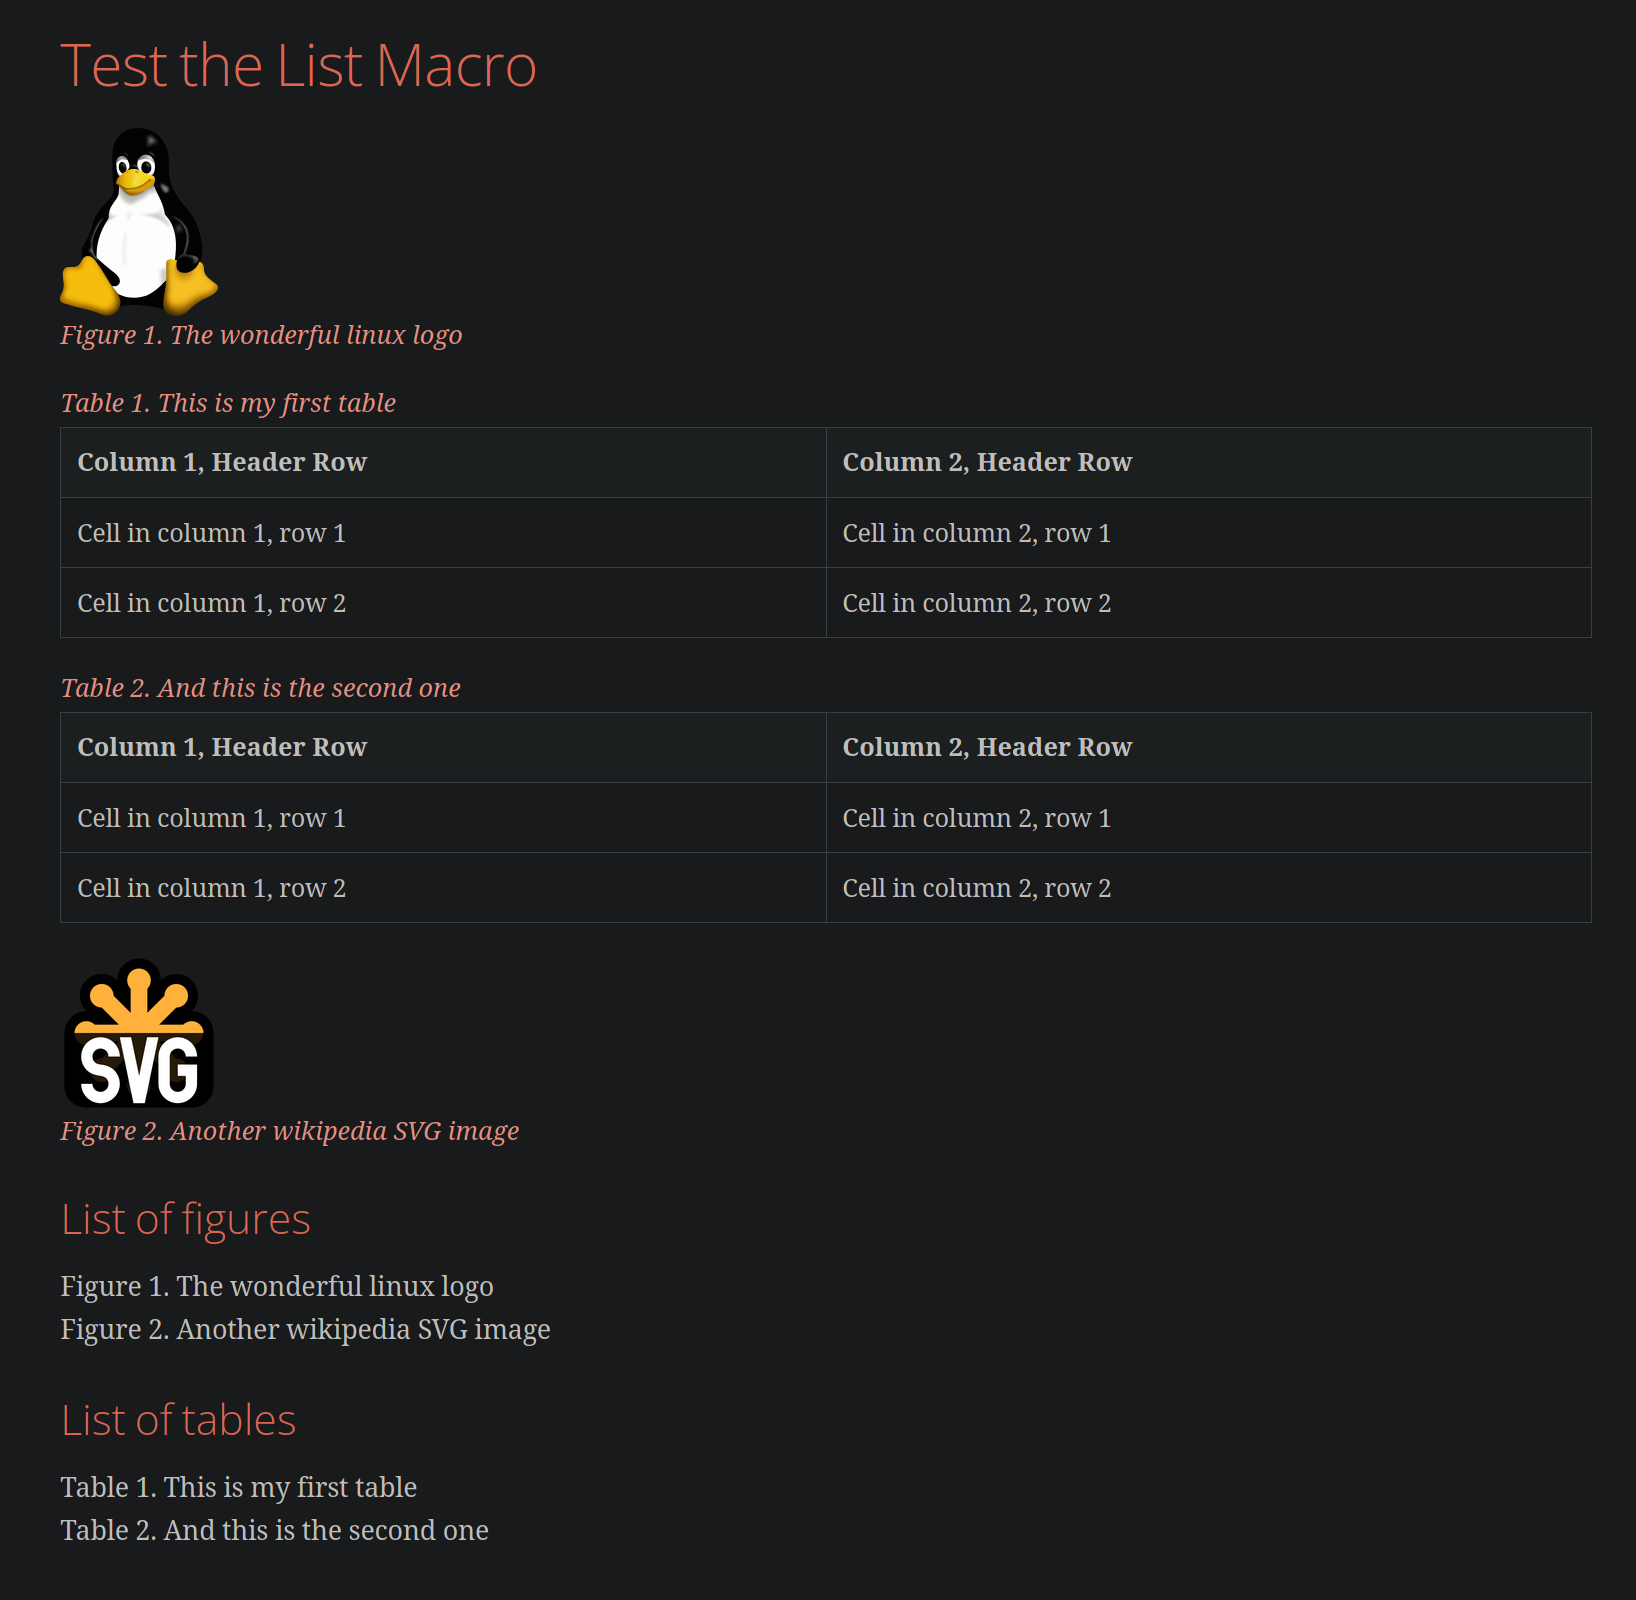
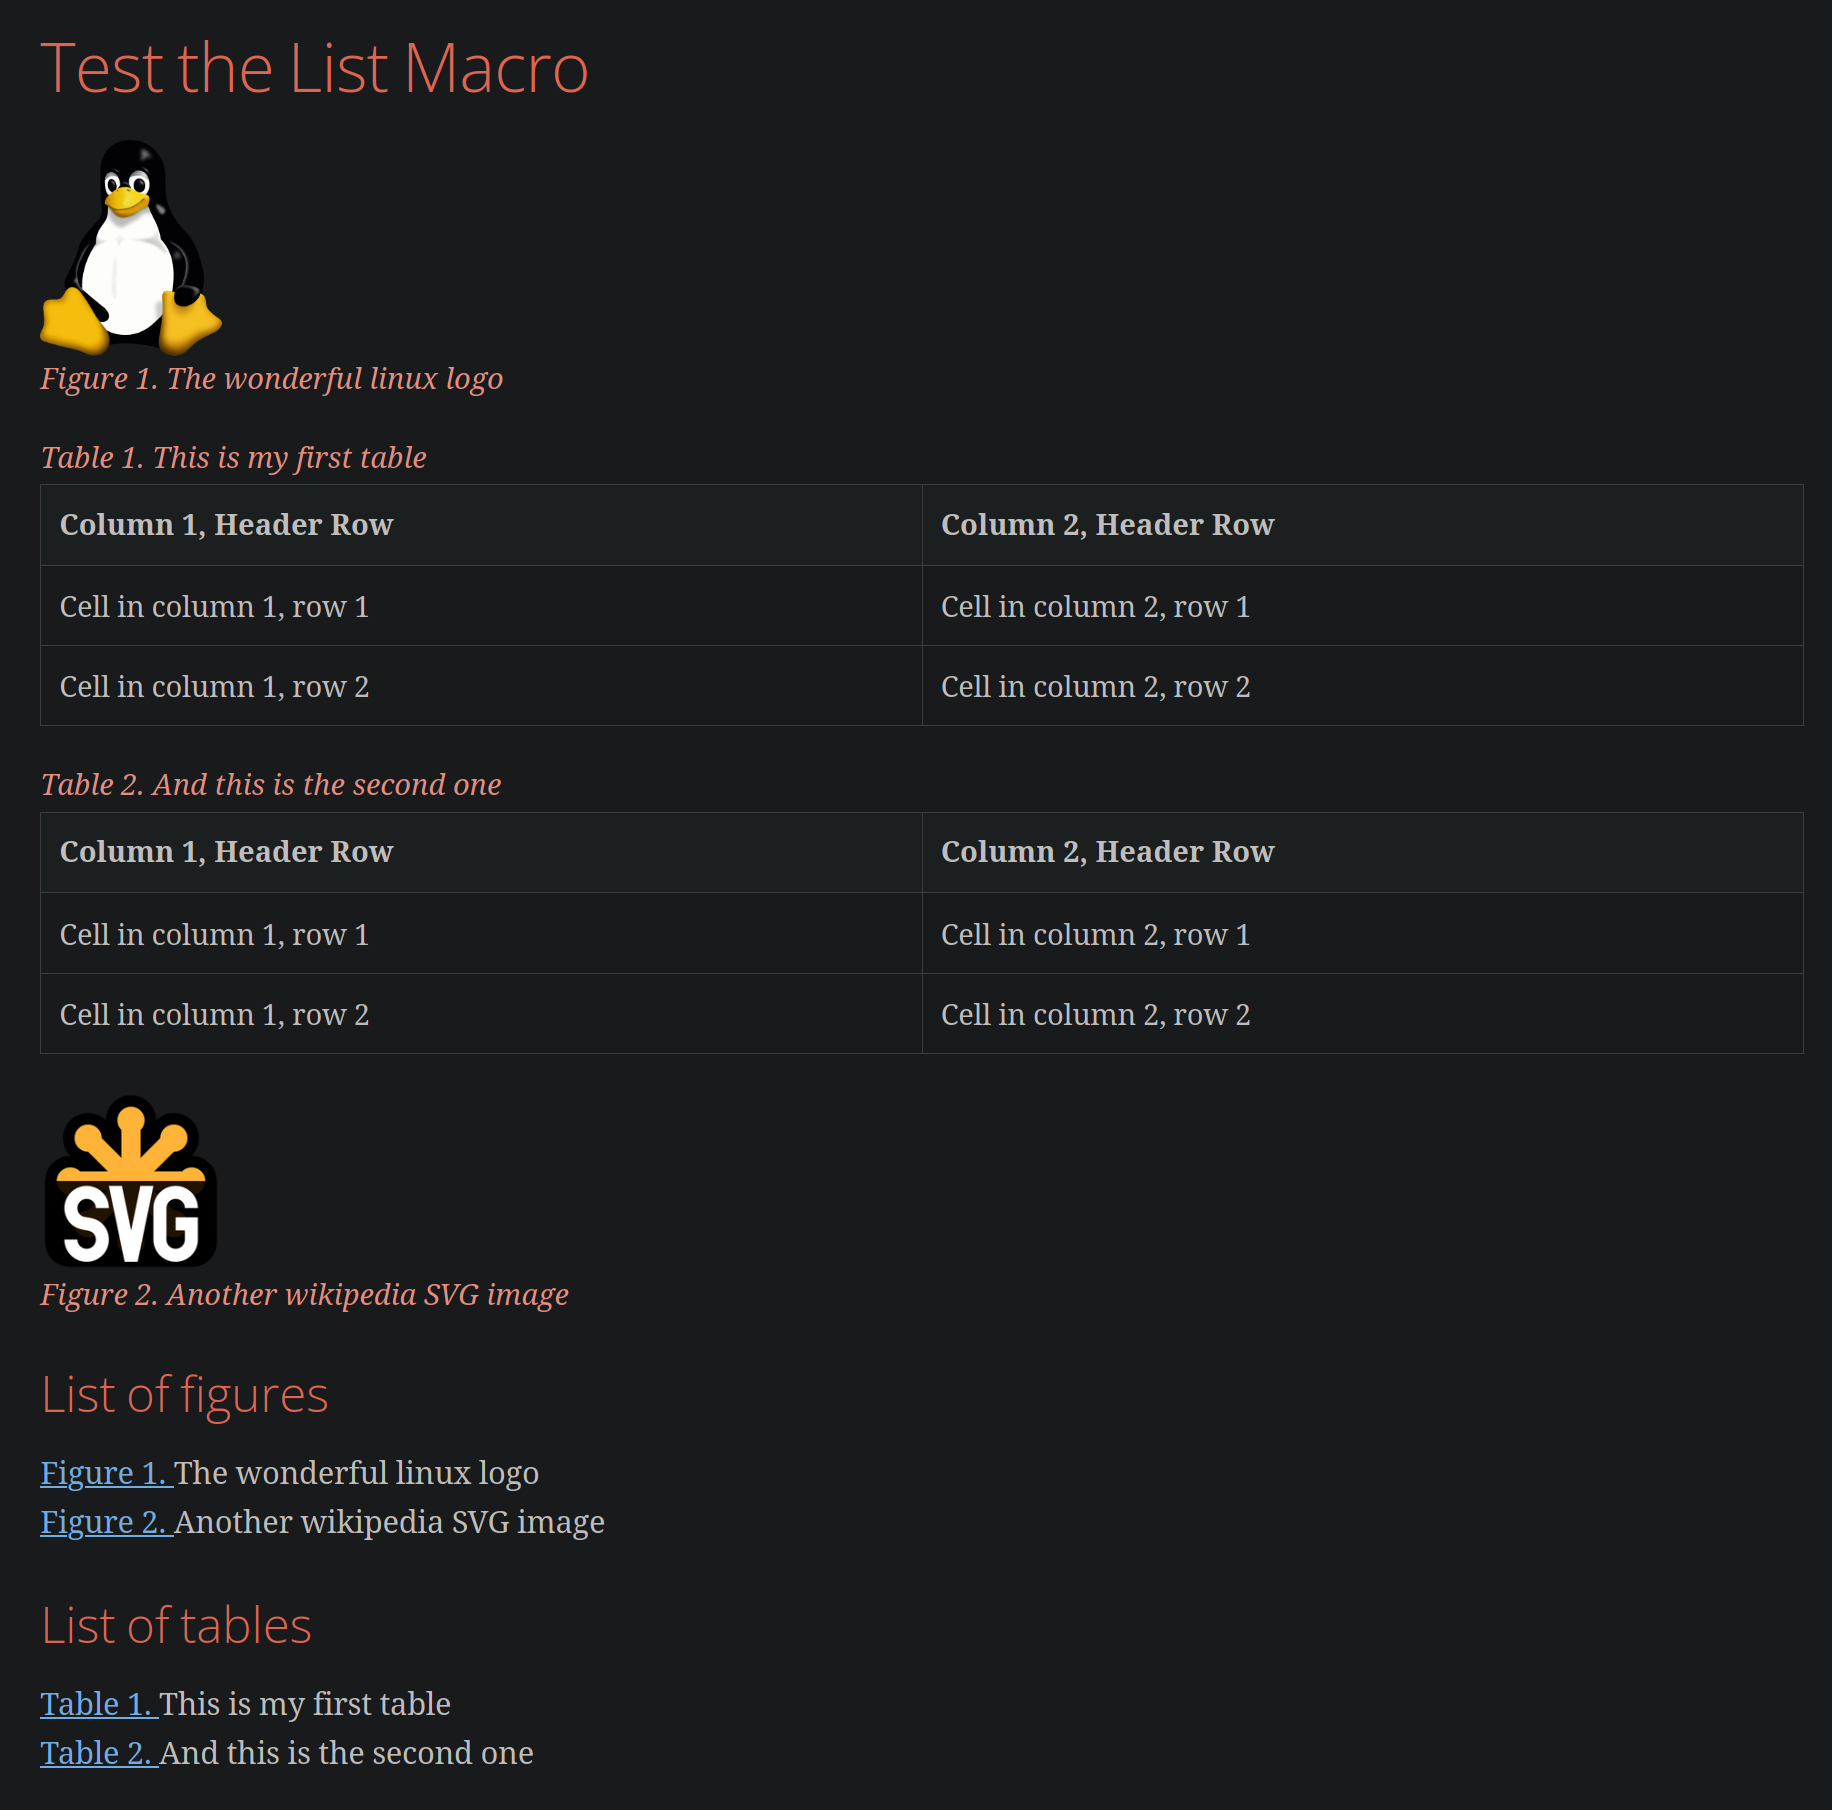
Finished implementing links

diff --git a/lib/asciidoctor-lists/extensions.rb b/lib/asciidoctor-lists/extensions.rb
@@ -22,37 +22,33 @@ module AsciidoctorLists
   # Searches for the figures and replaced ListOfFiguresMacroPlaceholder with the list of figures
   # Inspired by https://github.com/asciidoctor/asciidoctor-bibtex/blob/master/lib/asciidoctor-bibtex/extensions.rb#L162
   class ListOfFiguresTreeprocessor < ::Asciidoctor::Extensions::Treeprocessor
-     def process document
+     def process(document)
        tof_blocks = document.find_by do |b|
-          # for fast search (since most searches shall fail)
-          (b.content_model == :simple) && (b.lines.size == 1) \
+         # for fast search (since most searches shall fail)
+         (b.content_model == :simple) && (b.lines.size == 1) \
             && (MacroPlaceholder.keys.include?(b.lines[0]))
-        end
-        tof_blocks.each do |block|
-          references_asciidoc = []
-          element_name = ":" + MacroPlaceholder[block.lines[0]][:element]
-          document.find_by(context: eval(element_name)).each do |element|
+       end
+       tof_blocks.each do |block|
+         references_asciidoc = []
+         element_name = ":" + MacroPlaceholder[block.lines[0]][:element]
+         document.find_by(context: eval(element_name)).each do |element|
 
-            if element.caption
-              element_id = SecureRandom.uuid
-              # element.set_attr('id', element_id)
-              # document.references[:ids][element.attributes['id']] = element_id
-              puts document.references[:ids]
-              # xref:new_id[use attributes within the link macro]
-              references_asciidoc << %(xref:#{element_id}[#{element.title}] +)
-            end
-          end
+           if element.caption
+             element.id = SecureRandom.uuid
+             references_asciidoc << %(xref:#{element.id}[#{element.caption}]#{element.title} +)
+           end
+         end
 
-          block_index = block.parent.blocks.index do |b|
-            b == block
-          end
-          reference_blocks = parse_asciidoc block.parent, references_asciidoc
-          reference_blocks.reverse.each do |b|
-            block.parent.blocks.insert block_index, b
-          end
-          block.parent.blocks.delete_at block_index + reference_blocks.size
-        end
-      end
+         block_index = block.parent.blocks.index do |b|
+           b == block
+         end
+         reference_blocks = parse_asciidoc block.parent, references_asciidoc
+         reference_blocks.reverse.each do |b|
+           block.parent.blocks.insert block_index, b
+         end
+         block.parent.blocks.delete_at block_index + reference_blocks.size
+       end
+     end
       # This is an adapted version of Asciidoctor::Extension::parse_content,
       # where resultant blocks are returned as a list instead of attached to
       # the parent.

diff --git a/lib/asciidoctor-lists/version.rb b/lib/asciidoctor-lists/version.rb
@@ -1,3 +1,3 @@
 module AsciidoctorLists
-  VERSION = '0.0.3'
+  VERSION = '1.0.0'
 end
